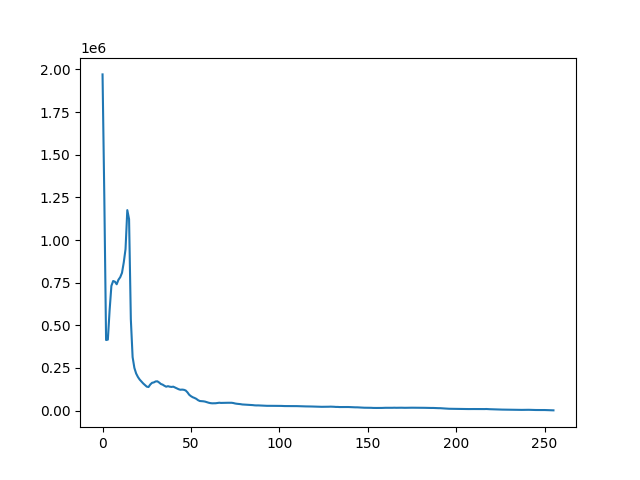
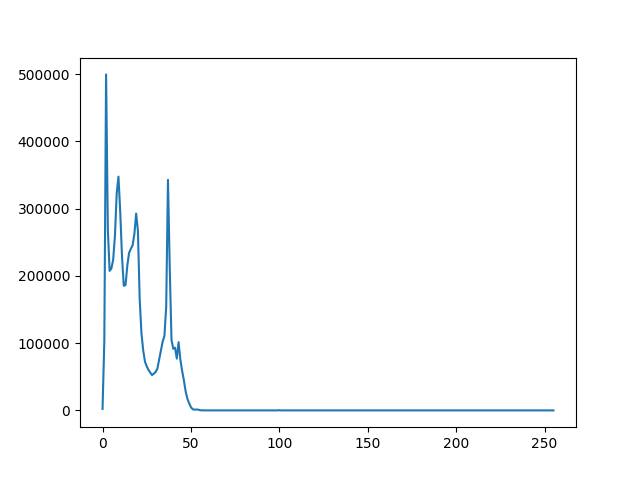
oh yes

diff --git a/histogram.py b/histogram.py
@@ -1,12 +1,18 @@
 # importing required libraries of opencv 
 import cv2 
-  
+import asyncio
+import numpy
+from copy import deepcopy
 # importing library for plotting 
 from matplotlib import pyplot as plt 
 
+class Numpy_index:
+    def __init__(self, array):
+        array.where()
+
 def create_histogram(image_path: str, save_path):
     print(f"[HISTOGRAM] Reading file {image_path}")
-    img = cv2.imread(image_path, 0)
+    img = cv2.imread(image_path, cv2.IMREAD_GRAYSCALE)
 
     histr = cv2.calcHist([img], [0], None, [256], [0, 256])
 
@@ -16,15 +22,59 @@ def create_histogram(image_path: str, save_path):
     except Exception as e:
         print(f"Exception: {e}")
 
+async def find_middle(histogram_list):
+    highest = 0
+    for index in histogram_list:
+        print(index[0])
+        if index[0] > highest:
+            highest = index[0]
+    print("highest", highest)
+    return highest
+
+# top points, average number distance between points
+# !!MISSING!! Calculate difference of peak and points around, probably of 5 layers deep
+async def process_points(histogram_list):
+    top_points = []
+    index = 1
+
+    if histogram_list[0] > histogram_list[1]:
+        top_points.append(histogram_list[0])
+    while index < len(histogram_list)-1:
+        if histogram_list[index-1] < histogram_list[index] > histogram_list[index+1]:
+            print(f"{histogram_list[index-1]} {histogram_list[index]} {histogram_list[index+1]}")
+            top_points.append(histogram_list[index])
+        index = index + 1
+    if histogram_list[-1] > histogram_list[-2]:
+        top_points.append(histogram_list[-1])
+
+    print(f"There are {len(top_points)} top points")
+    
+    iterations = 1
+    total = 0
+    index = 0
+    while index < len(histogram_list)-1:
+        total = total + histogram_list[index]
+        iterations = iterations + 1
+        index = index + 1
+    average = total/iterations
+    print("Total:", total, "Iterations:", iterations)
+    print("Average difference is", average)
+
+    return top_points
+
 if __name__ == "__main__":
     # reads an input image 
-    img = cv2.imread("images/6B5lT.jpg",0) 
+    img = cv2.imread("images/Untitled.png",0) 
 
     # find frequency of pixels in range 0-255 
     histr = cv2.calcHist([img],[0],None,[256],[0,256]) 
 
     # show the plotting graph of an image 
-
+    hist = deepcopy(histr)
+    print(histr, len(histr))
+    asyncio.run(process_points(hist))
+    # histr[100] = histr[100] + 3e+2
     plt.plot(histr)
-    plt.savefig("pablo")
+    
+    # plt.savefig("pablo")
     plt.show()
